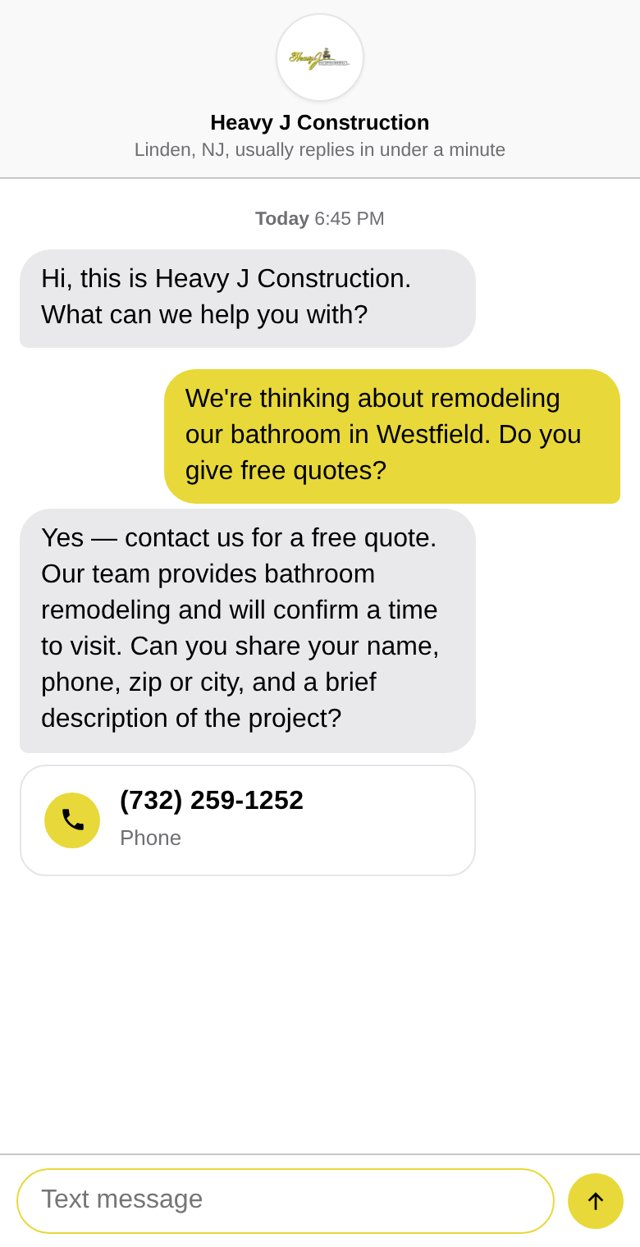
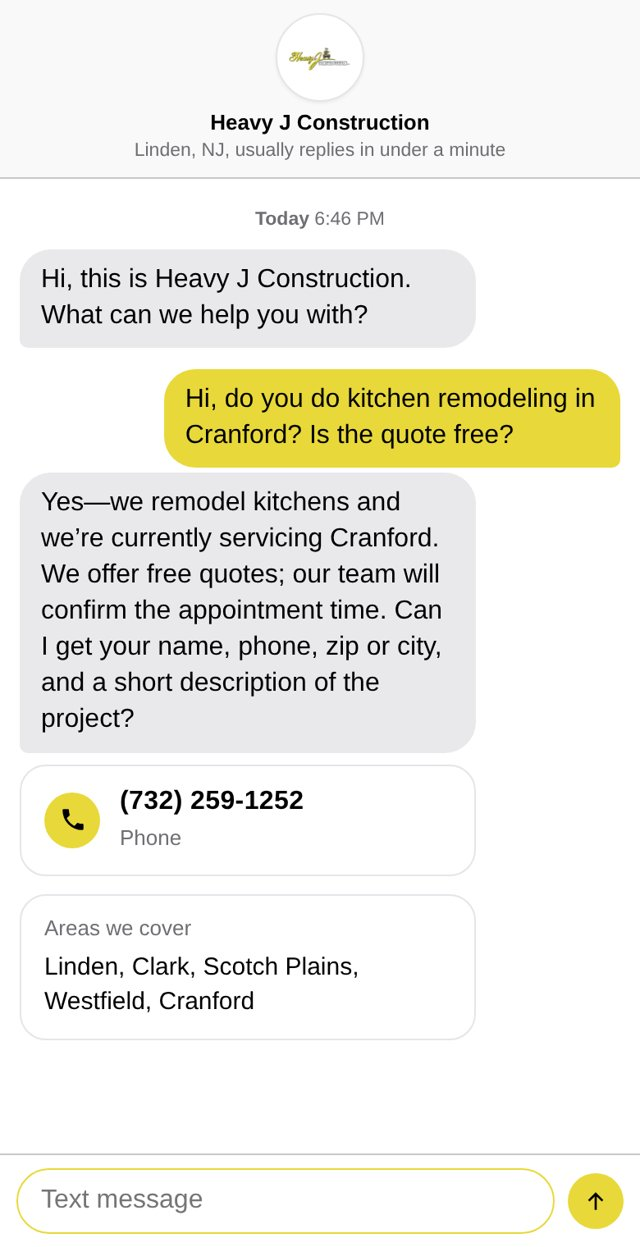
heavy-j-construction chat

Changed region(s): [[0.0625, 0.3047, 0.9688, 0.6095], [0.0625, 0.7314, 0.5625, 0.8228]]

diff --git a/heavy-j-construction/index.html b/heavy-j-construction/index.html
@@ -7,7 +7,7 @@ img.shot{max-width:360px;margin:0 auto 22px}figcaption{text-align:center;font-we
 a.btn{display:block;max-width:420px;margin:0 auto;text-align:center;background:#1f66e0;color:#fff;text-decoration:none;font-weight:700;padding:15px;border-radius:14px;font-size:16px}
 small{display:block;text-align:center;color:#7a8596;margin-top:16px;font-size:12.5px}</style></head><body><main>
 <h1>A website assistant for Heavy J Construction</h1><p>It answers your website visitors instantly, day or night, using only what's on your website, and sends you their name, number and what they need.</p><img class="shot" src="screenshot.jpg" alt="Preview of the assistant on your website">
-<a class="btn" href="https://wpsani.store/demo/d/ca7a18ff">Try it live</a>
+<a class="btn" href="https://wpsani.store/demo/d/38d2afb1">Try it live</a>
 <small>Private demo built by Federico Sanua, independent web developer, sanuafederico@gmail.com</small>
-<img src="https://wpsani.store/demo/p/ca7a18ff.gif" width="1" height="1" alt="" style="position:absolute;left:-9999px">
+<img src="https://wpsani.store/demo/p/38d2afb1.gif" width="1" height="1" alt="" style="position:absolute;left:-9999px">
 </main></body></html>
